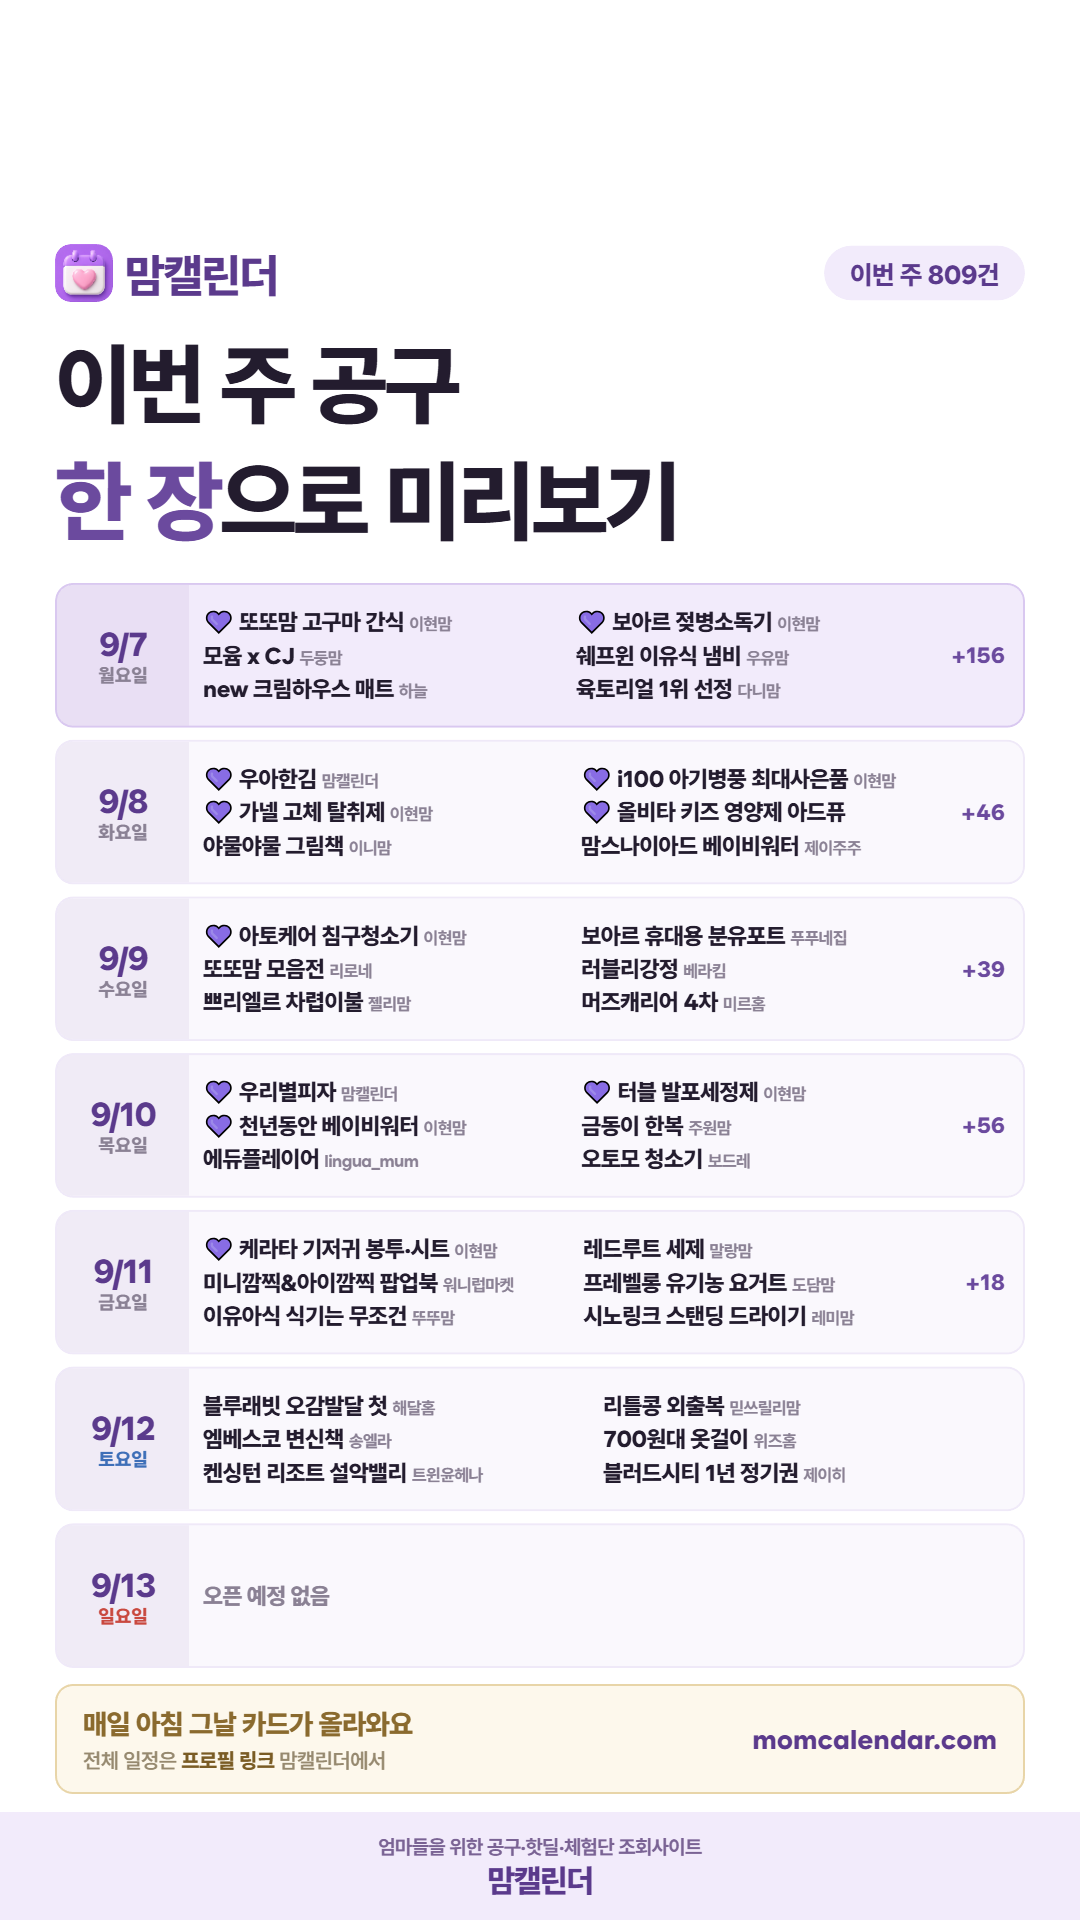
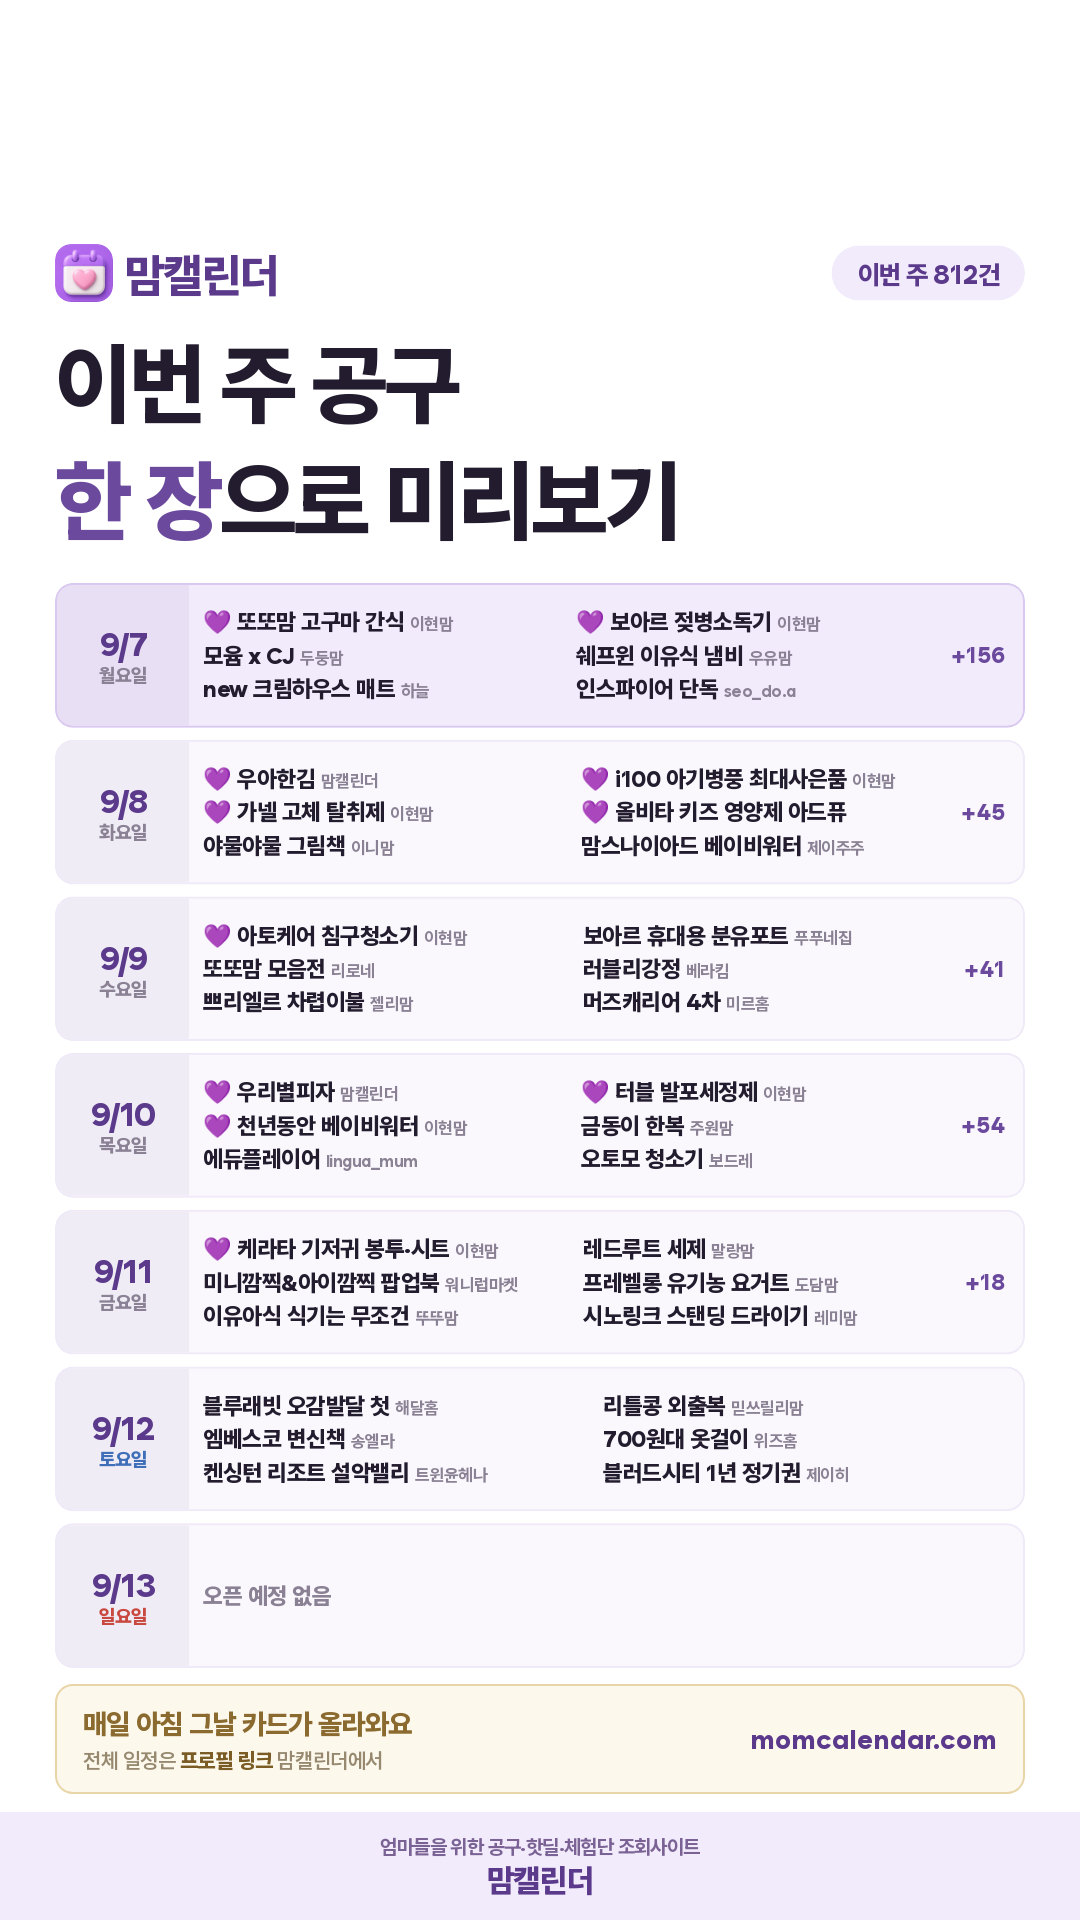
아침 인스타 카드 (2026-09-07)

diff --git a/daily/2026-09-07.html b/daily/2026-09-07.html
@@ -19,15 +19,15 @@ textarea{width:100%;height:260px;border:1px solid #E3DCEF;border-radius:10px;pad
 .todo p{font-size:12.5px;color:#6B6379;line-height:1.75;margin-top:6px}
 .todo a{color:#5B2E8C;font-weight:700}
 </style></head><body>
-<div class="hd"><div class="wrap"><h1>9월 7일(월) 인스타 카드</h1><p>주간예고 · week 809</p></div></div>
+<div class="hd"><div class="wrap"><h1>9월 7일(월) 인스타 카드</h1><p>주간예고 · week 812</p></div></div>
 <div class="wrap">
   
   <div class="card"><img src="./2026-09-07.png" alt="오늘 공구 카드"></div>
   <a class="btn" href="./2026-09-07.png" download="momcal_20260907.png">사진 저장</a>
   <div class="card">
-    <textarea id="cap" readonly>한 주 공구 계획은 이 카드 한 장이면 끝이에요
+    <textarea id="cap" readonly>월요일 아침 루틴 — 이번 주 공구 미리보기예요
 
-이번 주(9/7~9/13) 오픈 예정 809건
+이번 주(9/7~9/13) 오픈 예정 812건
 
 ━━━━━━━━━━━━━━
 
@@ -37,14 +37,14 @@ textarea{width:100%;height:260px;border:1px solid #E3DCEF;border-radius:10px;pad
 · 모윰 x CJ 단독 — 두둥맘
 · 쉐프윈 이유식 냄비 — 우유맘
 · new 크림하우스 매트 — 하늘
-· 육토리얼 1위 선정 아기수전, 아기비데 — 다니맘
 · 인스파이어 단독 — seo_do.a
-· 잼먹 채수·아기간장 — 또마맘
-· 오아시스마켓 X 로리안 재구매템 — 로리안
+· 육토리얼 1위 선정 아기수전, 아기비데 — 다니맘
 · 탁가온 실리콘 식기·찜기 4차 — 산들맘
-· 주니 자기주도 스푼포크 — 무끼
 · 세이펜 4세대 &amp; 세이톡 5세대 — 오꼬베
+· 잼먹 채수·아기간장 — 또마맘
 · 베투키 엘키즈 유산균 — 마미약사
+· UGG — 껀미언니
+· 오아시스마켓 X 로리안 재구매템 — 로리안
 …외 149건
 
 🗓 9/8(화) 오픈
@@ -55,13 +55,13 @@ textarea{width:100%;height:260px;border:1px solid #E3DCEF;border-radius:10px;pad
 · 야물야물 그림책 — 이니맘
 · 맘스나이아드 베이비워터 — 제이주주
 · 안지가구 전면책장 — 온이프홈
-· 오보기 포대기 — dudungmom
 · 아이배냇 아기 조미료 — 서노
 · 키토케토 간식 — _mssssssss
 · 난각번호 1번란 — 솔맘
 · 오가닉포리지 — 연플랜
 · 롯데호텔 추석 선물 세트 — 유영비
-…외 39건
+· 러닝리소스 보드게임 — 오니맘
+…외 38건
 
 🗓 9/9(수) 오픈
 · 아토케어 침구청소기 — 이현맘 @ihyeon_mom_251125
@@ -77,7 +77,7 @@ textarea{width:100%;height:260px;border:1px solid #E3DCEF;border-radius:10px;pad
 · 머즈 승무원 캐리어 — 나리테이블
 · 제주 갈치 선물세트 — 진명테이블
 · 허그아이 육퇴함 — 쀼맘
-…외 32건
+…외 34건
 
 🗓 9/10(목) 오픈
 · 우리별피자 — 맘캘린더 @momcal_
@@ -93,7 +93,7 @@ textarea{width:100%;height:260px;border:1px solid #E3DCEF;border-radius:10px;pad
 · 올유베베 가을신상 고쟁이&amp;모달긴팔T&amp;나시 — 콩알픽
 · 오베 소창수건 — 온그리
 · 더순해 — 헤이쭌마미
-…외 49건
+…외 47건
 
 🗓 9/11(금) 오픈
 · 케라타 기저귀 봉투·시트 — 이현맘 @ihyeon_mom_251125
@@ -108,7 +108,8 @@ textarea{width:100%;height:260px;border:1px solid #E3DCEF;border-radius:10px;pad
 · 킨즈n르베르 오징어팝콘 장난감 (신제품) — 리아곰
 · 서울쿠키 선물세트 — 라라맘
 · 락앤락 레인지프라이어 PLUS — 아린이네
-…외 12건
+· 에르메스 오도랑쥬 베르테 — 종달맘
+…외 11건
 
 🗓 9/12(토) 오픈
 · 블루래빗 오감발달 첫 놀이감&amp;플러스 — 해달홈
@@ -121,23 +122,23 @@ textarea{width:100%;height:260px;border:1px solid #E3DCEF;border-radius:10px;pad
 
 ━━━━━━━━━━━━━━
 
-📌 저장해두면 필요할 때 바로 꺼내 볼 수 있어요
-💜 팔로우하면 내일 일정도 놓치지 않아요
+도움이 되셨다면 👍 좋아요 하나 눌러주세요
+📌 저장 · 💜 팔로우는 큰 힘이 됩니다
 
-이 계정은 공구일정 조회 사이트 맘캘린더가 운영해요
-찾는 공구는 프로필 링크에서 검색하면 바로 나와요
-인스타보다 카페가 편하신 분들은
-네이버카페 「맘캘린더」로 놀러오세요, 수다방도 있어요 💬
+공구 찾을 땐 프로필 링크의 맘캘린더 사이트에서
+검색 한 번이면 끝나요
+피드를 매일 못 보신다면 네이버카페 「맘캘린더」도 있어요
+엄마들끼리 수다 떨며 정보 나누는 공간이에요 ☕
 
 💬 궁금한 브랜드·공구는 댓글로 남겨주세요
 우선적으로 찾아서 맘캘린더에 올려드릴게요
 
-유익하셨길 바라며, 내일도 찾아올게요 🙌
+내일 일정도 아침에 바로 올려드릴게요 :)
 
 ⚠ 공구 일정은 판매자 사정에 따라 변경·조기마감될 수 있어요.
 
-#맘캘린더 #공구일정 #육아공구 #9월7일공구 #공구찾기 #유아용품 #공구모음 #아기간식 #공구오픈 #공구오픈일정 #공구정보 #먹거리공구</textarea>
-    <div class="meta">2172자</div>
+#맘캘린더 #공구일정 #육아공구 #9월7일공구 #공구정보 #맘스타그램 #먹거리공구 #공구오픈일정 #신학기준비 #공구찾기 #공동구매 #공구모음</textarea>
+    <div class="meta">2174자</div>
     <button class="btn btn2" onclick="cp('cap','캡션')">캡션 복사</button>
   </div>
   <div class="card">
@@ -169,10 +170,10 @@ https://open.kakao.com/o/gr2kJhCh
 
 ─────────────
 
-9월 7일(월) 공구 오픈 소식이에요. 오늘 올라온 291건을 정리해 뒀어요.
+9월 7일(월) 공구 오픈 소식이에요. 오늘 올라온 292건을 정리해 뒀어요.
 마감이 오늘인 공구도 161건 있어요. 담아두셨다면 서두르셔야 해요.
 
-■ 오늘 오픈하는 공구 291건
+■ 오늘 오픈하는 공구 292건
 
 [육아]
 · AI 닥터스쿨 — 양아름 (~9/10 마감)
@@ -189,8 +190,8 @@ https://open.kakao.com/o/gr2kJhCh
 · 디즈니 그림명작 — 서점맘 (~9/13 마감)
 · 디즈니 그림명작 60권 — 수니점빵 (~9/13 마감)
 · 라무르 47차 — 뮤즈언니 (~9/9 마감)
-· 라비킷 분유포트 — 뮤즈마켓 (~9/11 마감)
 · 라비킷 분유포트 — 뮤즈언니 (~9/11 마감)
+· 라비킷 분유포트 — 뮤즈마켓 (~9/11 마감)
 · 랜드웨이 BMW 키즈 자전거 — 이현찰퐁맘 (~9/10 마감)
 · 러닝리소스 장난감 — 말랑맘 (~9/13 마감)
 · 레벨릭스 썼다지웠다 워크북 — 쁨마미 (~9/9 마감)
@@ -217,6 +218,7 @@ https://open.kakao.com/o/gr2kJhCh
 · 바브레 변기모음전 4차 — 젤리또리 (~9/10 마감)
 · 베라수 엄마사랑 산후조리 패키지 — 모꼬맘 (~9/10 마감)
 · 베어블리 칠교놀이 — 미쁘주 (~9/10 마감)
+· 벤밧 카시트커버 — heeah_travel (~9/10 마감)
 · 벤밧 카시트커버 — 희아패밀리 (~9/10 마감)
 · 보아르 젖병소독기 — 이현맘 (~9/11 마감)
 · 보이보이 장난감대전 — wooamom_goeun (~9/10 마감)
@@ -343,8 +345,8 @@ https://open.kakao.com/o/gr2kJhCh
 · 삼원가든 두툼떡갈비&amp;치즈떡갈비 — 워킹맘의하루 (~9/11 마감)
 · 순델리 순수햄 선물세트 2차 — 몰리짱 (~9/20 마감)
 · 순델리햄 — 더쭌맘 (~9/10 마감)
-· 아스크라 올리브오일 — 아밍제이 (~9/9 마감)
 · 아스크라 올리브오일 — 아밍제이 (~9/10 마감)
+· 아스크라 올리브오일 — 아밍제이 (~9/9 마감)
 · 앙젤리나 3차 — emily.at_home (~9/10 마감)
 · 앵거스박 LA꽃갈비·양념갈비 — 마마혜정 (~9/10 마감)
 · 오로바일렌 올리브오일 — 홈멍멍 (~9/9 마감)

diff --git a/daily/index.html b/daily/index.html
@@ -1,1 +1,1 @@
-<!DOCTYPE html><meta charset="UTF-8"><meta http-equiv="refresh" content="0;url=./2026-09-06.html">
+<!DOCTYPE html><meta charset="UTF-8"><meta http-equiv="refresh" content="0;url=./2026-09-07.html">
